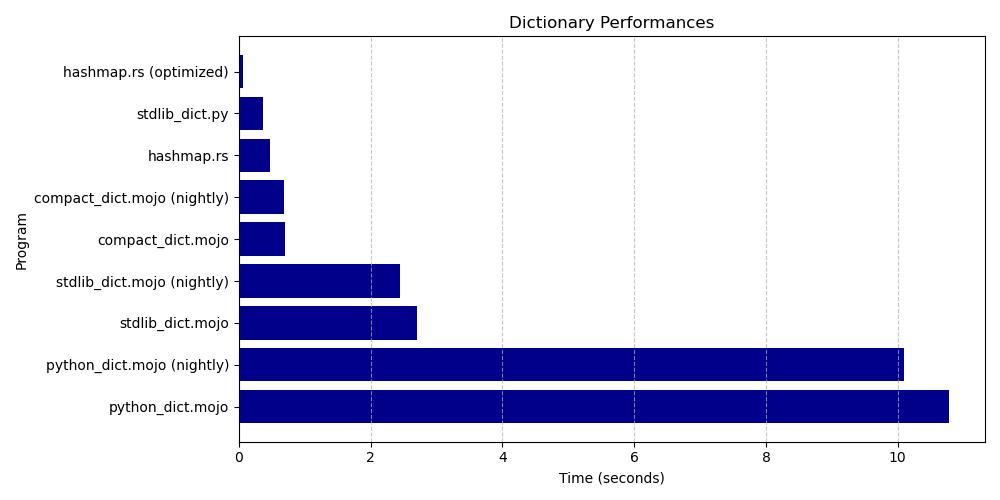
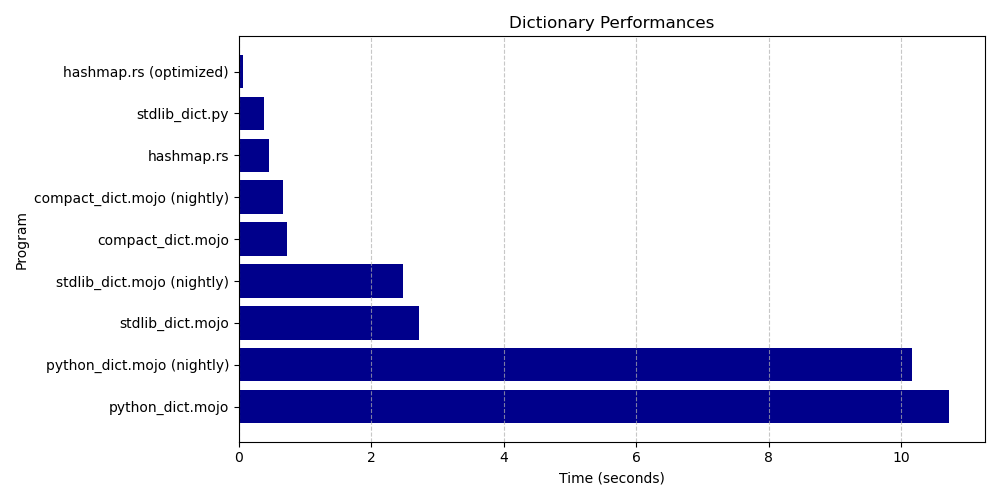
benchmarks updated

diff --git a/README.md b/README.md
@@ -54,15 +54,15 @@ After running the benchmarks, you can view the performance comparison in `result
 
 | Program | Time (seconds) |
 |---------|----------------|
-| hashmap.rs (optimized) | 0.058493 sec |
-| stdlib_dict.py | 0.373382 sec |
-| hashmap.rs | 0.473159 sec |
-| compact_dict.mojo (nightly) | 0.685255 sec |
-| compact_dict.mojo | 0.697470 sec |
-| stdlib_dict.mojo (nightly) | 2.438702 sec |
-| stdlib_dict.mojo | 2.707037 sec |
-| python_dict.mojo (nightly) | 10.089265 sec |
-| python_dict.mojo | 10.785411 sec |
+| hashmap.rs (optimized) | 0.062228 sec |
+| stdlib_dict.py | 0.378968 sec |
+| hashmap.rs | 0.456287 sec |
+| compact_dict.mojo (nightly) | 0.661226 sec |
+| compact_dict.mojo | 0.726776 sec |
+| stdlib_dict.mojo (nightly) | 2.474072 sec |
+| stdlib_dict.mojo | 2.715950 sec |
+| python_dict.mojo (nightly) | 10.157776 sec |
+| python_dict.mojo | 10.727387 sec |
 
 ![Chart](./results/benchmarks.png)
 

diff --git a/results/benchmarks.md b/results/benchmarks.md
@@ -2,14 +2,14 @@
 
 | Program | Time (seconds) |
 |---------|----------------|
-| hashmap.rs (optimized) | 0.058493 sec |
-| stdlib_dict.py | 0.373382 sec |
-| hashmap.rs | 0.473159 sec |
-| compact_dict.mojo (nightly) | 0.685255 sec |
-| compact_dict.mojo | 0.697470 sec |
-| stdlib_dict.mojo (nightly) | 2.438702 sec |
-| stdlib_dict.mojo | 2.707037 sec |
-| python_dict.mojo (nightly) | 10.089265 sec |
-| python_dict.mojo | 10.785411 sec |
+| hashmap.rs (optimized) | 0.062228 sec |
+| stdlib_dict.py | 0.378968 sec |
+| hashmap.rs | 0.456287 sec |
+| compact_dict.mojo (nightly) | 0.661226 sec |
+| compact_dict.mojo | 0.726776 sec |
+| stdlib_dict.mojo (nightly) | 2.474072 sec |
+| stdlib_dict.mojo | 2.715950 sec |
+| python_dict.mojo (nightly) | 10.157776 sec |
+| python_dict.mojo | 10.727387 sec |
 
 ![Performance Chart](benchmark.png)
